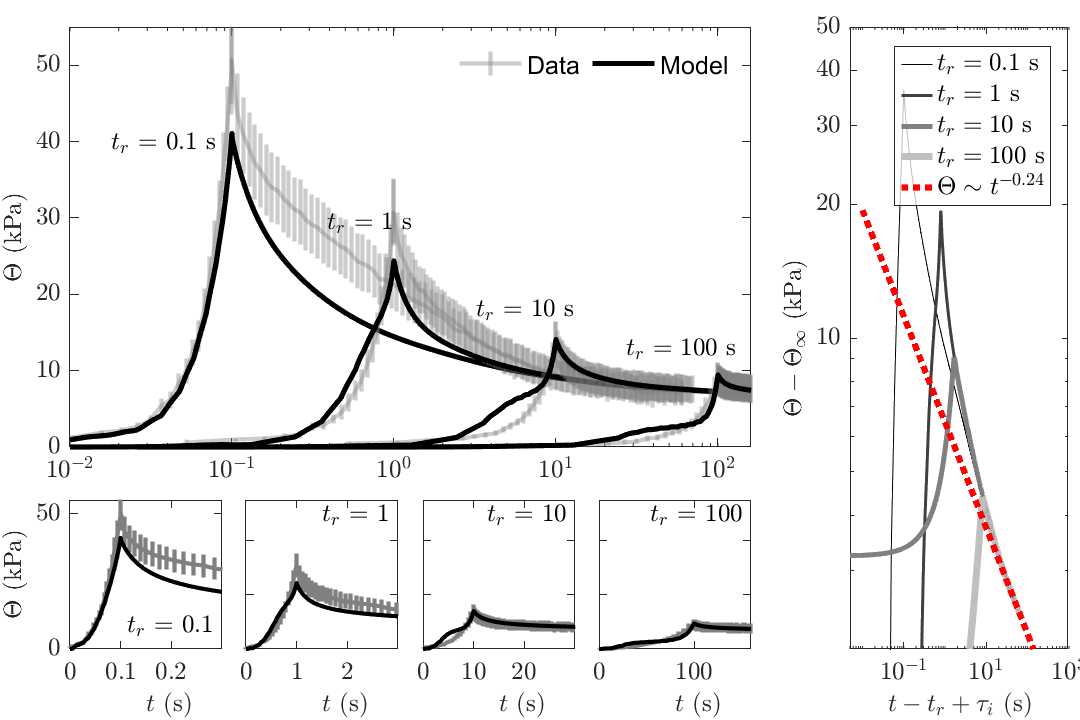
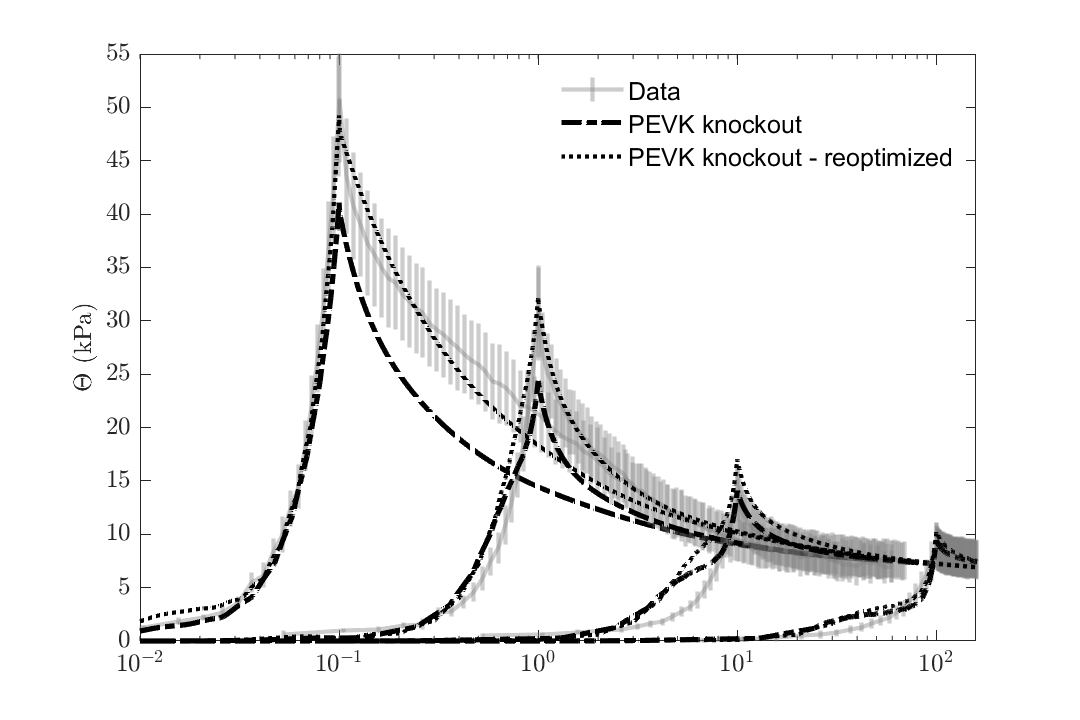
Adding optimized PEVK knockout to fig 11

diff --git a/Model/OptimizeCOmbined.m b/Model/OptimizeCOmbined.m
@@ -144,6 +144,79 @@ disp(['params = [' sprintf('%1.3g, ', params(:)) '];'])
 % clf;
 % figure(2)
 % plotParams(prams(modSel), params)
+%%
+
+%% Figure 11+: optim for missing PEVK
+
+paramNames = {'\F_{ss}', 'n_ss' , 'k_p'    , 'n_p'    , 'k_d'   , 'n_d'    , '\alpha_U'  , 'n_U'    , '\mu'    , '\delta_U'    , 'k_{A}'   , 'k_{D}'   };
+
+% params from RunCombinedModel
+params = [ 5.19       12.8       4345       2.37      4e+04       2.74  8.658e+05      5.797      0.678      0.165   0.005381      0.383 ];
+% knock out the PEVK attachment
+params(11) = 1e-9;
+pCa = 4.51;
+rampSet = [4];
+modSel = [3 4 5 6 7 8 9];    
+init = params(modSel);    
+options = optimoptions('surrogateopt','Display','iter', 'MaxTime', 4*60*60, 'UseParallel',true, 'PlotFcn', 'surrogateoptplot', 'InitialPoints', init', MaxFunctionEvaluations=1500);
+% lb = T.lb./T.val; ub = T.ub./T.val;
+lb = 0.01*init, ub = 20*init;
+evalLin = @(optMods) evalCombined(optMods, params, modSel, [4.4])
+
+evalLin(params(modSel))
+
+%%
+options = optimset('Display','iter', 'TolFun', 1e-3, 'Algorithm','sqp', 'TolX', 0.01, 'PlotFcns', @optimplotfval, 'MaxIter', 150);
+x = fminsearch(evalLin, init, options)
+params(modSel) = x;
+
+%%
+[x,fval,exitflag,output,trials] = surrogateopt(evalLin, lb,ub, options);
+params(modSel) = x;
+
+%% Plot comparison of PEVK knockout and PEVK knock-out optimized
+figure(1440);clf;
+
+pCa = 4.51;
+rampSet = [4 3 2 1];
+% standard best fit
+params = [ 5.19       12.8       4345       2.37      4e+04       2.74  8.658e+05      5.797      0.678      0.165   0.005381      0.383 ];
+% knock out the PEVK attachment
+params(11) = 1e-9;
+
+% default plot
+drawPlots = true;
+plotDetailedPlots = false;
+plotInSeparateFigure = false;
+RunCombinedModel;
+
+lines = findobj(gca, 'Type', 'Line');
+
+% Loop through each line and change it to dashed
+for i = 1:length(lines)
+    set(lines(i), 'LineStyle', '-.');
+end
+
+% optimized for PEVK knockout
+params = [5.19, 12.8, 7.56e+03, 2.75, 5.4e+04, 2.63, 1.87e+05, 5.85, 1.31, 0.165, 1e-09, 0.383, ];
+drawPlots = false;
+RunCombinedModel;
+% plot on top
+for j = max(rampSet):-1:1
+    plot(Time{j},Force{j},':', 'linewidth',2, 'Color', 'k'); 
+end
+% get rid of extra legends
+
+leg = legend;
+leg.String{2} = "PEVK knockout";
+leg.String{3} = "PEVK knockout - reoptimized";
+leg.String(4:end) = [];
+leg.NumColumns = 1;
+
+fontsize(12, 'points');
+aspect = 1.5;
+set(cf, 'Position', [500  300  7.2*96 7.2*96/aspect]);
+
 %% THATS IT as a default run
 return
 

diff --git a/Model/ExportFigures.m b/Model/ExportFigures.m
@@ -231,14 +231,46 @@ end
 %% Figure 11 - PEVK knockout
 clearvars -except saveFigures
 cf = figure(11);clf;
-drawPlots = true;
-% params from RunCombinedModel
+fontsize(12, 'points');
+
+pCa = 4.51;
+% standard best fit
 params = [ 5.19       12.8       4345       2.37      4e+04       2.74  8.658e+05      5.797      0.678      0.165   0.005381      0.383 ];
 % knock out the PEVK attachment
 params(11) = 1e-9;
-pCa = 4.51;
-plotDetailedPlots = true;
+
+% default plot
+drawPlots = true;
+plotDetailedPlots = false;
+plotInSeparateFigure = false;
 RunCombinedModel;
+fontsize(12, 'points');
+
+% Loop through each line and change it to dashed
+lines = findobj(gca, 'Type', 'Line');
+for i = 1:length(lines)
+    set(lines(i), 'LineStyle', '-.');
+end
+
+% NOW - optimized for PEVK knockout
+params = [5.19, 12.8, 7.56e+03, 2.75, 5.4e+04, 2.63, 1.87e+05, 5.85, 1.31, 0.165, 1e-09, 0.383, ];
+drawPlots = false;
+RunCombinedModel;
+
+% Add to plot
+for j = max(rampSet):-1:1
+    plot(Time{j},Force{j},':', 'linewidth',2, 'Color', 'k'); 
+end
+
+% get rid of extra legends
+leg = legend; 
+leg.Interpreter = "tex"
+leg.String{2} = "PEVK knockout"; leg.String{3} = "PEVK knockout - reoptimized";
+leg.String(4:end) = []; leg.NumColumns = 1;
+
+% general
+fontsize(12, 'points');
+aspect = 1.5;set(cf, 'Position', [500  300  7.2*96 7.2*96/aspect]);
 
 if saveFigures
     saveas(cf, '../Figures/Figure11', 'png');
